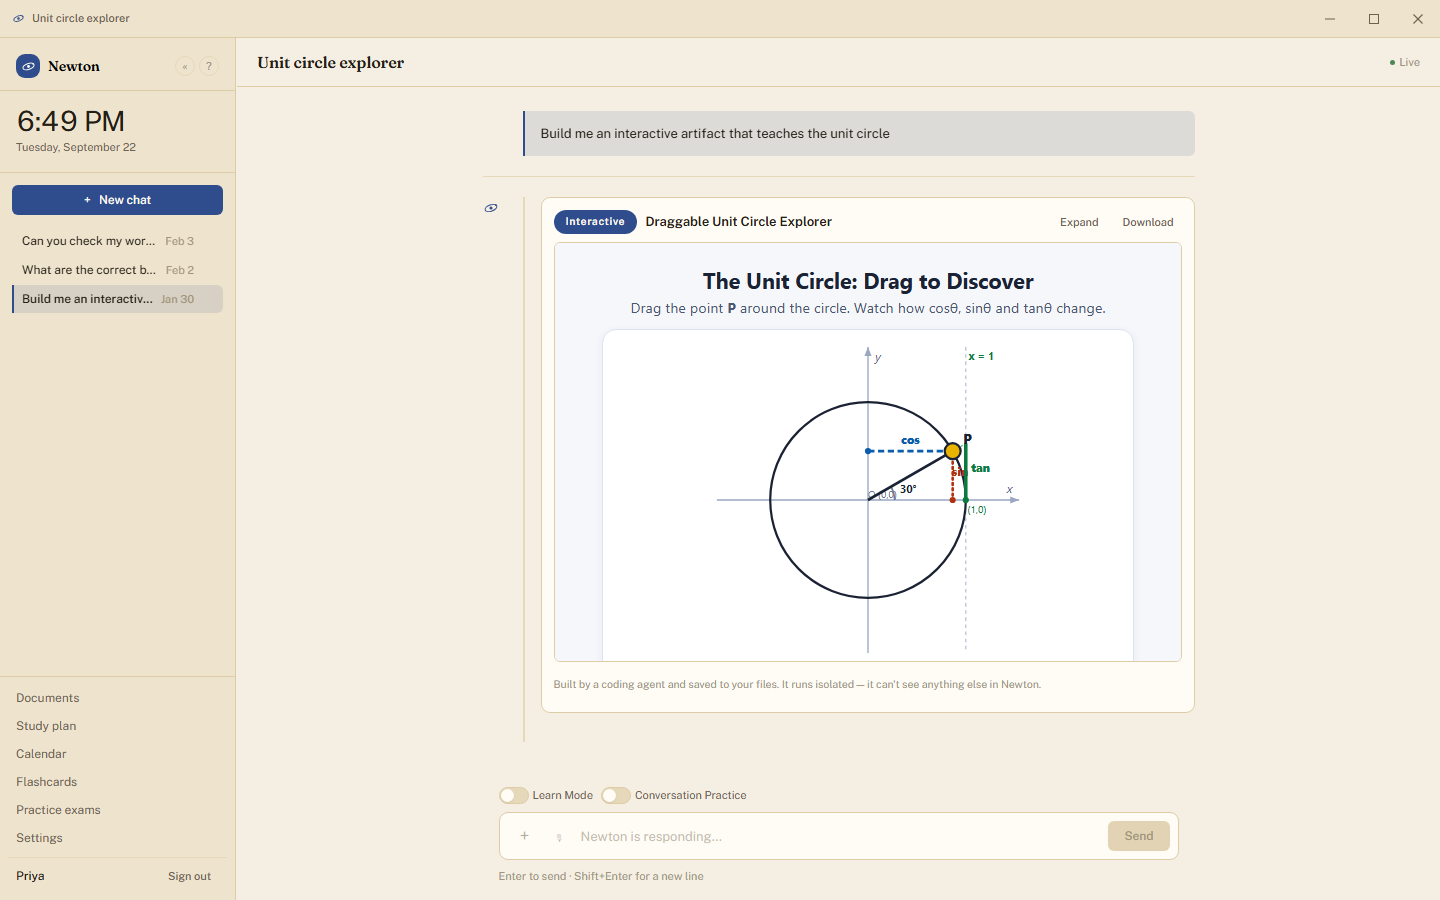
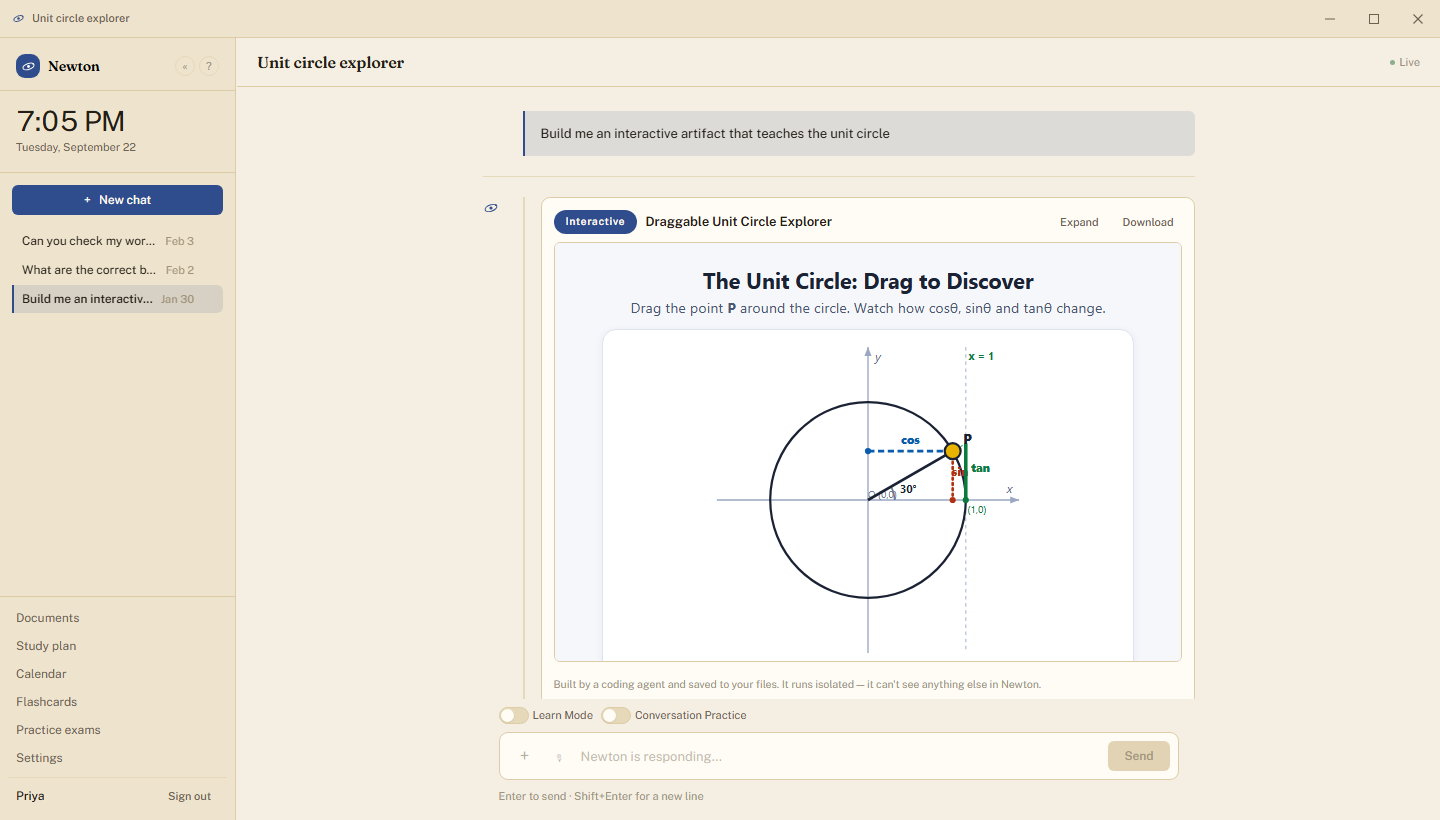
Make the demo frame actually big: horizontal rail, wider section, recropped shots
The side rail was eating half the frame's width and the section was capped at
the standard 1160px content column, so a 1440px-wide app screenshot rendered
at roughly half scale -- illegible sidebar/chat text. Moves the step rail to
a horizontal strip above the frame, widens the demo section to 1360px, grows
the device frame from a fixed 480px to min(78vh, 760px), and recaptures the
Study Mode / Artifact screenshots at a shorter harness viewport (1440x820) to
cut the dead vertical gap between a short conversation and the composer.

diff --git a/apps/website/src/components/AppWalkthrough.module.css b/apps/website/src/components/AppWalkthrough.module.css
@@ -6,32 +6,31 @@
  * ------------------------------------------------------------------- */
 
 .stage {
-  display: grid;
-  grid-template-columns: minmax(0, 260px) minmax(0, 1fr);
-  gap: 28px;
-  max-width: 1080px;
+  display: flex;
+  flex-direction: column;
+  gap: 18px;
+  width: 100%;
   margin: 0 auto;
-  align-items: start;
 }
 
-/* ---------- Step rail ---------- */
+/* ---------- Step rail (a horizontal strip above the frame, so the frame itself
+   gets the full section width instead of sharing it with a side column) ---------- */
 
 .rail {
   display: flex;
-  flex-direction: column;
-  gap: 6px;
+  gap: 10px;
 }
 
 .railItem,
 .railItemActive {
   display: flex;
   align-items: flex-start;
-  gap: 12px;
-  width: 100%;
-  padding: 12px 14px;
+  gap: 10px;
+  flex: 1;
+  padding: 12px 16px;
   border: none;
-  border-left: 3px solid transparent;
-  border-radius: var(--radius-md);
+  border-bottom: 3px solid transparent;
+  border-radius: var(--radius-md) var(--radius-md) 0 0;
   background: none;
   text-align: left;
   cursor: pointer;
@@ -44,7 +43,7 @@
 
 .railItemActive {
   background-color: var(--color-accent-tint);
-  border-left-color: var(--color-accent);
+  border-bottom-color: var(--color-accent);
 }
 
 .railIndex {
@@ -142,7 +141,7 @@
 
 .deviceFrame {
   position: relative;
-  height: 480px;
+  height: min(78vh, 760px);
   border: 1px solid var(--color-border);
   border-radius: var(--radius-lg);
   background-color: var(--color-surface-2);
@@ -264,14 +263,8 @@
 /* ---------- Responsive ---------- */
 
 @media (max-width: 860px) {
-  .stage {
-    grid-template-columns: 1fr;
-  }
-
   .rail {
-    flex-direction: row;
     overflow-x: auto;
-    gap: 8px;
     padding-bottom: 4px;
   }
 
@@ -279,22 +272,16 @@
   .railItemActive {
     flex: 1 0 auto;
     min-width: 180px;
-    border-left: none;
-    border-bottom: 3px solid transparent;
-  }
-
-  .railItemActive {
-    border-bottom-color: var(--color-accent);
   }
 
   .deviceFrame {
-    height: 400px;
+    height: min(65vh, 520px);
   }
 }
 
 @media (max-width: 640px) {
   .deviceFrame {
-    height: 320px;
+    height: min(58vh, 420px);
   }
 
   .railItem .railCaption,

diff --git a/apps/website/src/components/AppWalkthrough.tsx b/apps/website/src/components/AppWalkthrough.tsx
@@ -150,7 +150,12 @@ export default function AppWalkthrough() {
   const Scene = SCENE_COMPONENTS[active];
 
   return (
-    <section id="demo" className={pageStyles.section} aria-labelledby="demo-heading">
+    <section
+      id="demo"
+      className={pageStyles.section}
+      style={{ maxWidth: 1360 }}
+      aria-labelledby="demo-heading"
+    >
       <div className={pageStyles.sectionHead}>
         <p className={pageStyles.eyebrow}>The first Agentic Learning Environment</p>
         <h2 id="demo-heading" className={pageStyles.sectionTitle}>

diff --git a/WEBSITE-ROADMAP.md b/WEBSITE-ROADMAP.md
@@ -531,6 +531,32 @@ This phase replaces them with real screenshots of the real, unmodified app compo
       pages confirmed still serving 200; the real rendered HTML inspected directly to
       confirm `template.tsx`'s wrapper class is actually present (`template-module__*`),
       not just assumed from the file existing.
+- **A real CI break, caused by this phase and fixed the same day**: the new
+  `apps/desktop/src/marketing-harness.tsx` shipped with an unused `init` parameter,
+  which `tsc`'s `noUnusedParameters` treats as a hard error — broke both the desktop
+  app's `frontend-tests` typecheck job and its `tauri-build` job (that build script is
+  `tsc && vite build`, so the typecheck failure took the whole build down with it) on
+  GitHub Actions, undetected locally because verification for this phase only ran
+  `apps/website`'s own `tsc`/tests/build, never `apps/desktop`'s. Fixed by dropping the
+  unused parameter; re-verified `apps/desktop` directly this time (`tsc` clean, `vite
+  build` clean, 699/699 tests) before pushing, and confirmed green on GitHub Actions
+  (not just assumed from the local fix).
+- **Phase 3.10.1 — the device frame was still too small.** Product owner, verbatim:
+  "THE LIVE DEMO IS SO SMALL YOU CAN BARELY SEE THE ACTUAL APPLICATION." Two compounding
+  causes, both fixed: (1) the side-by-side rail-plus-frame layout only gave the frame
+  roughly half the section's width; the rail moved to a horizontal strip above the frame
+  instead, and the section's own max-width grew from the standard 1160px to 1360px for
+  this section specifically (an inline `style` override on the `<section>`, so it can't
+  silently get re-clobbered by a later shared `.section` class edit). (2) The Study Mode
+  and Artifact screenshots themselves were recaptured at a shorter harness viewport
+  (1440×820, down from 1440×900) specifically to crop out the large dead vertical gap
+  between a short conversation and the composer bar, so more of the frame's height is
+  spent on actual content. The device frame itself grew from a fixed 480px to
+  `min(78vh, 760px)`. Re-verified: `tsc`/tests/build all clean again; a real Playwright
+  screenshot at 1440×1400 confirms the frame now renders the real app at a size where
+  the sidebar, tool-activity chips, and reply text are all legible, not shrunk into a
+  corner; a 390×844 mobile pass confirms the horizontal rail and frame still scale down
+  without overflow.
 
 ## Phase 4 — Sign-up + download pages
 - [ ] Sign-up page routes into the existing Keycloak OAuth flow (registration already
